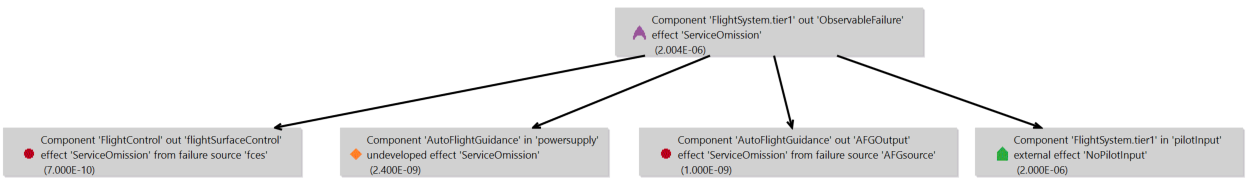
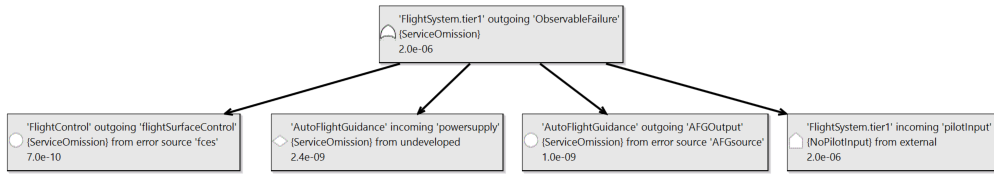
more updated figures and text.

Changed region(s): [[0.0, 0.0286, 1.0, 1.0], [0.5614, 0.4571, 0.5926, 0.5714], [0.6861, 0.3429, 0.7173, 0.4286]]

diff --git a/org.osate.aadl2.errormodel.contrib/doc/safetyanalysis.md b/org.osate.aadl2.errormodel.contrib/doc/safetyanalysis.md
@@ -138,29 +138,45 @@ Intermediate events represent events whose subevents are combined by logic gates
 
 >Note that **Kof(1)** is the same as **Xor** of single elements, and **KOrMore(1)** is the same as **Or** of single elements.
 
-Eclipse Sirius is automatically invoked to visualize the fault trees graphically and in table format. An example graphical presentation of a fault tree shows the different event types. Each fault tree event shows the name of the component instance and incoming or outgoing feature in the first line. The second line identifies the propagated error type as **effect** and in case of an error source its name as **failure source**, and the third line the computed or assigned occurence probability. 
+Eclipse Sirius is automatically invoked to visualize the fault trees in table or graphical view. 
+
+An example graphical view of a fault tree (shown below) illustrates the different event types. The graphical view uses a compact presentation of events and gates by showing events as rectangles and the gate type as part of an event with multiple subevents. 
+Each fault tree event rectangle contains an icon reflecting the event type or gate logic type as well as three lines of text: 
+
+* The first line shows the name of the component instance and incoming or outgoing feature or binding point. 
+* The second line identifies the error model element represented by the fault tree event. Typically this is the error type of an error propagation, an error event, or error state, and in the case of an intermediate event that represents a logic condition, the gate logic and construct containing the logic condition.
+* The third line shows the computed or assigned occurence probability. 
+
+![FlightSystemTier1Graphic](images/flightsystemtier1.png "FlightSystemTier1Graphic")
+The example graphical view shows the following:
+
 * The top level fault tree event shows the outgoing features and propagated error type representing the outgoing error propagation selected by the user in the dialog. 
 * The basic events for components **FlightControl** and **AutoFlightGuidance** show an error type from an error soruce as effect through an outgoing features. 
 * An **undeveloped** event for component **AutoFlightGuidance** shows an incoming propagation from the **powersupply** incoming feature that has not been connected yet. 
 * Finally, an **external** event for component **flightsystem_tier1** shows an error type as incoming effect from outside the flight system.
-* 
-![FlightSystemTier1Graphic](images/flightsystemtier1.png "FlightSystemTier1Graphic")
 
-The table view of a fault tree shows the fault tree events hierarchically nested in the first column. The icon and the text in this column is the same as the first two lines of the graphical fault tree representation. The second column indicates the type of event, and in the case of an intermediate event the type of gate logic. The third column shows the occurrence probability as assigned or computed. The fourth column indicates whether the fault tree event is a common subevent to multiple events. The example shows a top level event with three basic subevents and one intermediate event as **and** gate.
+An example table view is shown below for a different fault tree. The example shows a top level event with three basic subevents and one intermediate event as **and** gate with two subevents.
+
+* The first column shows the fault tree events hierarchically nested. The icon and the text in this column is the same as the first line of the graphical fault tree representation. 
+* The second column shows error model element represented by the event (line 2 of the event in the graphical view).  
+* The third column shows the occurrence probability as assigned or computed. 
+* The fourth column indicates the event type, or in the case of an intermediate event with more than one subevent the gate logic. 
+* The fifth column indicates whether the fault tree event is a common (shared) subevent to multiple events, i.e., a dependent event. 
 
 ![GPS2SensorTable](images/fta-gps2sensorstatetable.png "GPS2SensorTable")
 
-###Error State-based Composite Parts Fault Tree Generation
+###Composite Error State-based Parts Fault Tree Generation
 
-One use early in the process is a composite parts fault tree generation. In this case users define a parts model, i.e., identify the parts of each system, and specify how the error states of the parts relate to the error states of the enclosing system through composite state declarations. Note that user can define such a model with error state machines at multiple level of a system architecture. Users also do not have to specify an error state machine for each level. Instead a higher level state can be expressed in terms of subsystems more than one level down. 
->This is similar to specifying reliability block diagrams (RBD) in a compositional manner, where the logic of the composite error behavior state corresponds to the logic represented graphically by parallel and serial blocks. It replaces the RBD command previous versions of OSATE supported.
+One use early in the process is a composite parts fault tree generation. In this case users define a parts model, i.e., identify the parts of each system, and specify how the error states of the parts relate to the error states of the enclosing system through composite state declarations. Note that user can define such a model with error state machines at multiple level of a system architecture. Users also do not have to specify an error state machine for each level. Instead a higher level state can be expressed in terms of subsystems more than one level down by identifying a subcomponent inside a subcomponent as the condition element. If the identified subcomponent also has composite error behavior specifications, then the generated fault tre recursively includes the identified composite error states. 
 
 An example of a composite error behavior state declaration is shown here. 
 > In EMV2 the **1 ormore** operator is used to indicate **inclusive oOr**, while the EMV2 **Or** operator represents **exclusive or**.
 
 ![Composite Error Behavior](images/compositeerrorbehavior.png "Composite Error Behavior")
 
-In our example, the package *GPSSystem* contains the top level GPS system with a number of implementations with different levels of detail and configurations. The parts model is represented by the system implementation *gps.parts_SingleSensor*. In this case, the fault tree analysis constructs a complete system fault tree from fault tree fragments based on the composite state declarations for a user-selected error state of the top-level system.
+In our example, the package *GPSSystem* contains the top level GPS system with a number of implementations with different levels of detail and configurations. The parts model is represented by the system implementation *gps.parts_TwoSensor*. The composite error behavior specifies that the state **FailStop** for **GPS** holds if both sensors that act as satellite signal receivers fail (AND), or any of the other parts fail. 
+
+>This is similar to specifying reliability block diagrams (RBD) in a compositional manner, where the logic of the composite error behavior state corresponds to the logic represented graphically by parallel and serial blocks. The **parts fault tree** replaces the RBD command from earlier versions of OSATE.
 
 Occurrence probability of the system error state (failure mode) is computed from the occurrence probability values assigned to the error states of the leaf nodes. The figure below shows the assignment of the occurrence probability value to the power supply.
 
@@ -170,20 +186,27 @@ Occurrence probability of the system error state (failure mode) is computed from
 > Occurrence probability is computed from the occurrence probability on error states of the parts. This allows you to use of an error state machine with states only, i.e., without specification of error events and transitions. If an error state machine has been included with error events and transitions, and you want the error event included in the generated fault tree, then use the propagation graph based fault tree generation.
 
 The resulting graphical fault tree looks like this.
-![GPS Composite FTA](images/fta-gps1sensor.png "GPS Composite FTA")
+![GPS Composite FTA](images/fta-gps2sensorstate.png "GPS Composite FTA")
 
-### Fault Tree Derived from Backward Trace of Propagation Graph
-In this case, the propagation paths in the propagaation graph are traversed backward to construct a fault tree representation. In other words, propagation paths along connections, bindings, and user declared propagation paths, as well as error flows from incoming propagations to outgoing propagations are interpreted. If component error behavior in terms of error behavior state machines with error events, states, transitions, and outgoing ppropagation conditions are presents, they are interpreted resulting in a higher fidelity propagation graph and fault tree.
+###Flow-Based Fault Trees Generated from Backward Trace of Error Propagations
+A flow-based backward trace traverses propagation paths along connections, bindings, and error flows from incoming propagations to outgoing propagations are interpreted. If component error behavior specifies error behavior state machines with error events, states, transitions, and outgoing propagation conditions, then they are interpreted resulting in a higher fidelity fault tree.
 
-In its simplest form the analysis traces back from a user identified outgoing error propagation and error type of interest for the top-level system. In our example, this is represented by the top-level system implementation gps.basic.
+The starting point of a flow-based fault tree generation is an outgoing error propagation and error type of interest for the system instance, to which the fault tree analysis command is applied. This outgoing propagation represents the external effect a system function or service can have on its operational environment. The backward trace proceeds along propagation paths and error flows/component error bheaviors until it encounters an error source (Basic event), an error event (Basic event), or an incoming error propagation that does not have a propagation path due to an absent connection or binding (Undeveloped event), or an incoming error propagation of the top-level system (External event). 
 
-This propagation represents the external effect a system function or service can have on its operational environment. The backward trace continues until it encounters an error source, or an incoming error propagation that does not have a propagation path due to an absent connection or binding. An example of an intentionally unconnected incoming error propagation is an incoming propagation of the top level system. An example is shown in the figure below for the satellite signal coming to the satellitesignalreceiver.
+In the case of a **fault contributor trace** every stop of the backward trace is reflected in generated structure. The same component and error model element may be reached multiple times, i.e., it represents a dependent event. In this case, each copy of the shared event (or event subtree) is tagged accordingly. 
 
-![GPS flow-based FTA](images/fta-gps2.png "GPS flow-based FTA")
+An example fault contributor trace is shown for the system **GPS.basic**. The example shows a trace to the error source of the **network** component and to the error event of the **powersupply1** component. Both are marked as dependent events as they are reached via both **SatelliteSignalReceiver1** and **SatelliteSignalReceiver2**. The trace also shows an exernal event in teh form of a **satellitesignal** coming into the **GPS** system.
 
->The resulting fault tree is flattened during the generation. For example, the error source contributions of three successive components are represented as Events under a single OR gate instead of a right recursive tree of binary OR operators. Flattening has the effect that components may not show if they do not have fault contributors. For example, a software component itself may not show as contributor, if no error source or event has been specified for it, but the processor the software component is bound will show as contributor – illustrated in the example above by the event named Processing_processor_serviceomission
-Some components may be included multiple times in a fault tree. For example, a single source component whose output is fanned out along multiple paths and then brought together, or a processor with multiple software components bound to it. Such components are actually a single instance that is linked to by multiple gates in the fault tree. If the same component occurs multiple times directly under a gate it is listed only once. In our example above, the power supply is such a component.
+![GPS Fault Trace](images/gps-faulttrace.png "GPS Fault Trace")
 
+When the user selects **Fault tree with computed occurrence probability** the fault contributor trace is flattened by removing intermediate events with a single subevent. In addition a set of transformations are applied to reduce the presence of dependent events by moving events and event subtrees up until they are no longer shared. 
+
+The generaeted fault tree for our **GPS.basic** example is shown below. The **powersupply1** and **network** components contribute an **error event** and **error source** respectively. Those vents have been moved up to become subevents under the top-level system event connected via an OR gate. Note that these events were dependent events in the fault contributor trace.
+
+![GPS flow-based FTA](images/fta-gps-basic.png "GPS flow-based FTA")
+
+When the user selects **Minimal Cutsets with computed occurrence probability** the analysis generates a set of minimal cutsets for the system. The collection of cutsets is represented as an **OR**, while the elements in each cutset are added together. 
+![GPS cutset](images/gps-basic-cutset.png "GPS cutset")
 
 ### Mapping of EMV2 Constructs into Fault Tree Elements
 The fault tree generator maps EMV2 constructs into fault tree Events and Gates as follows:
